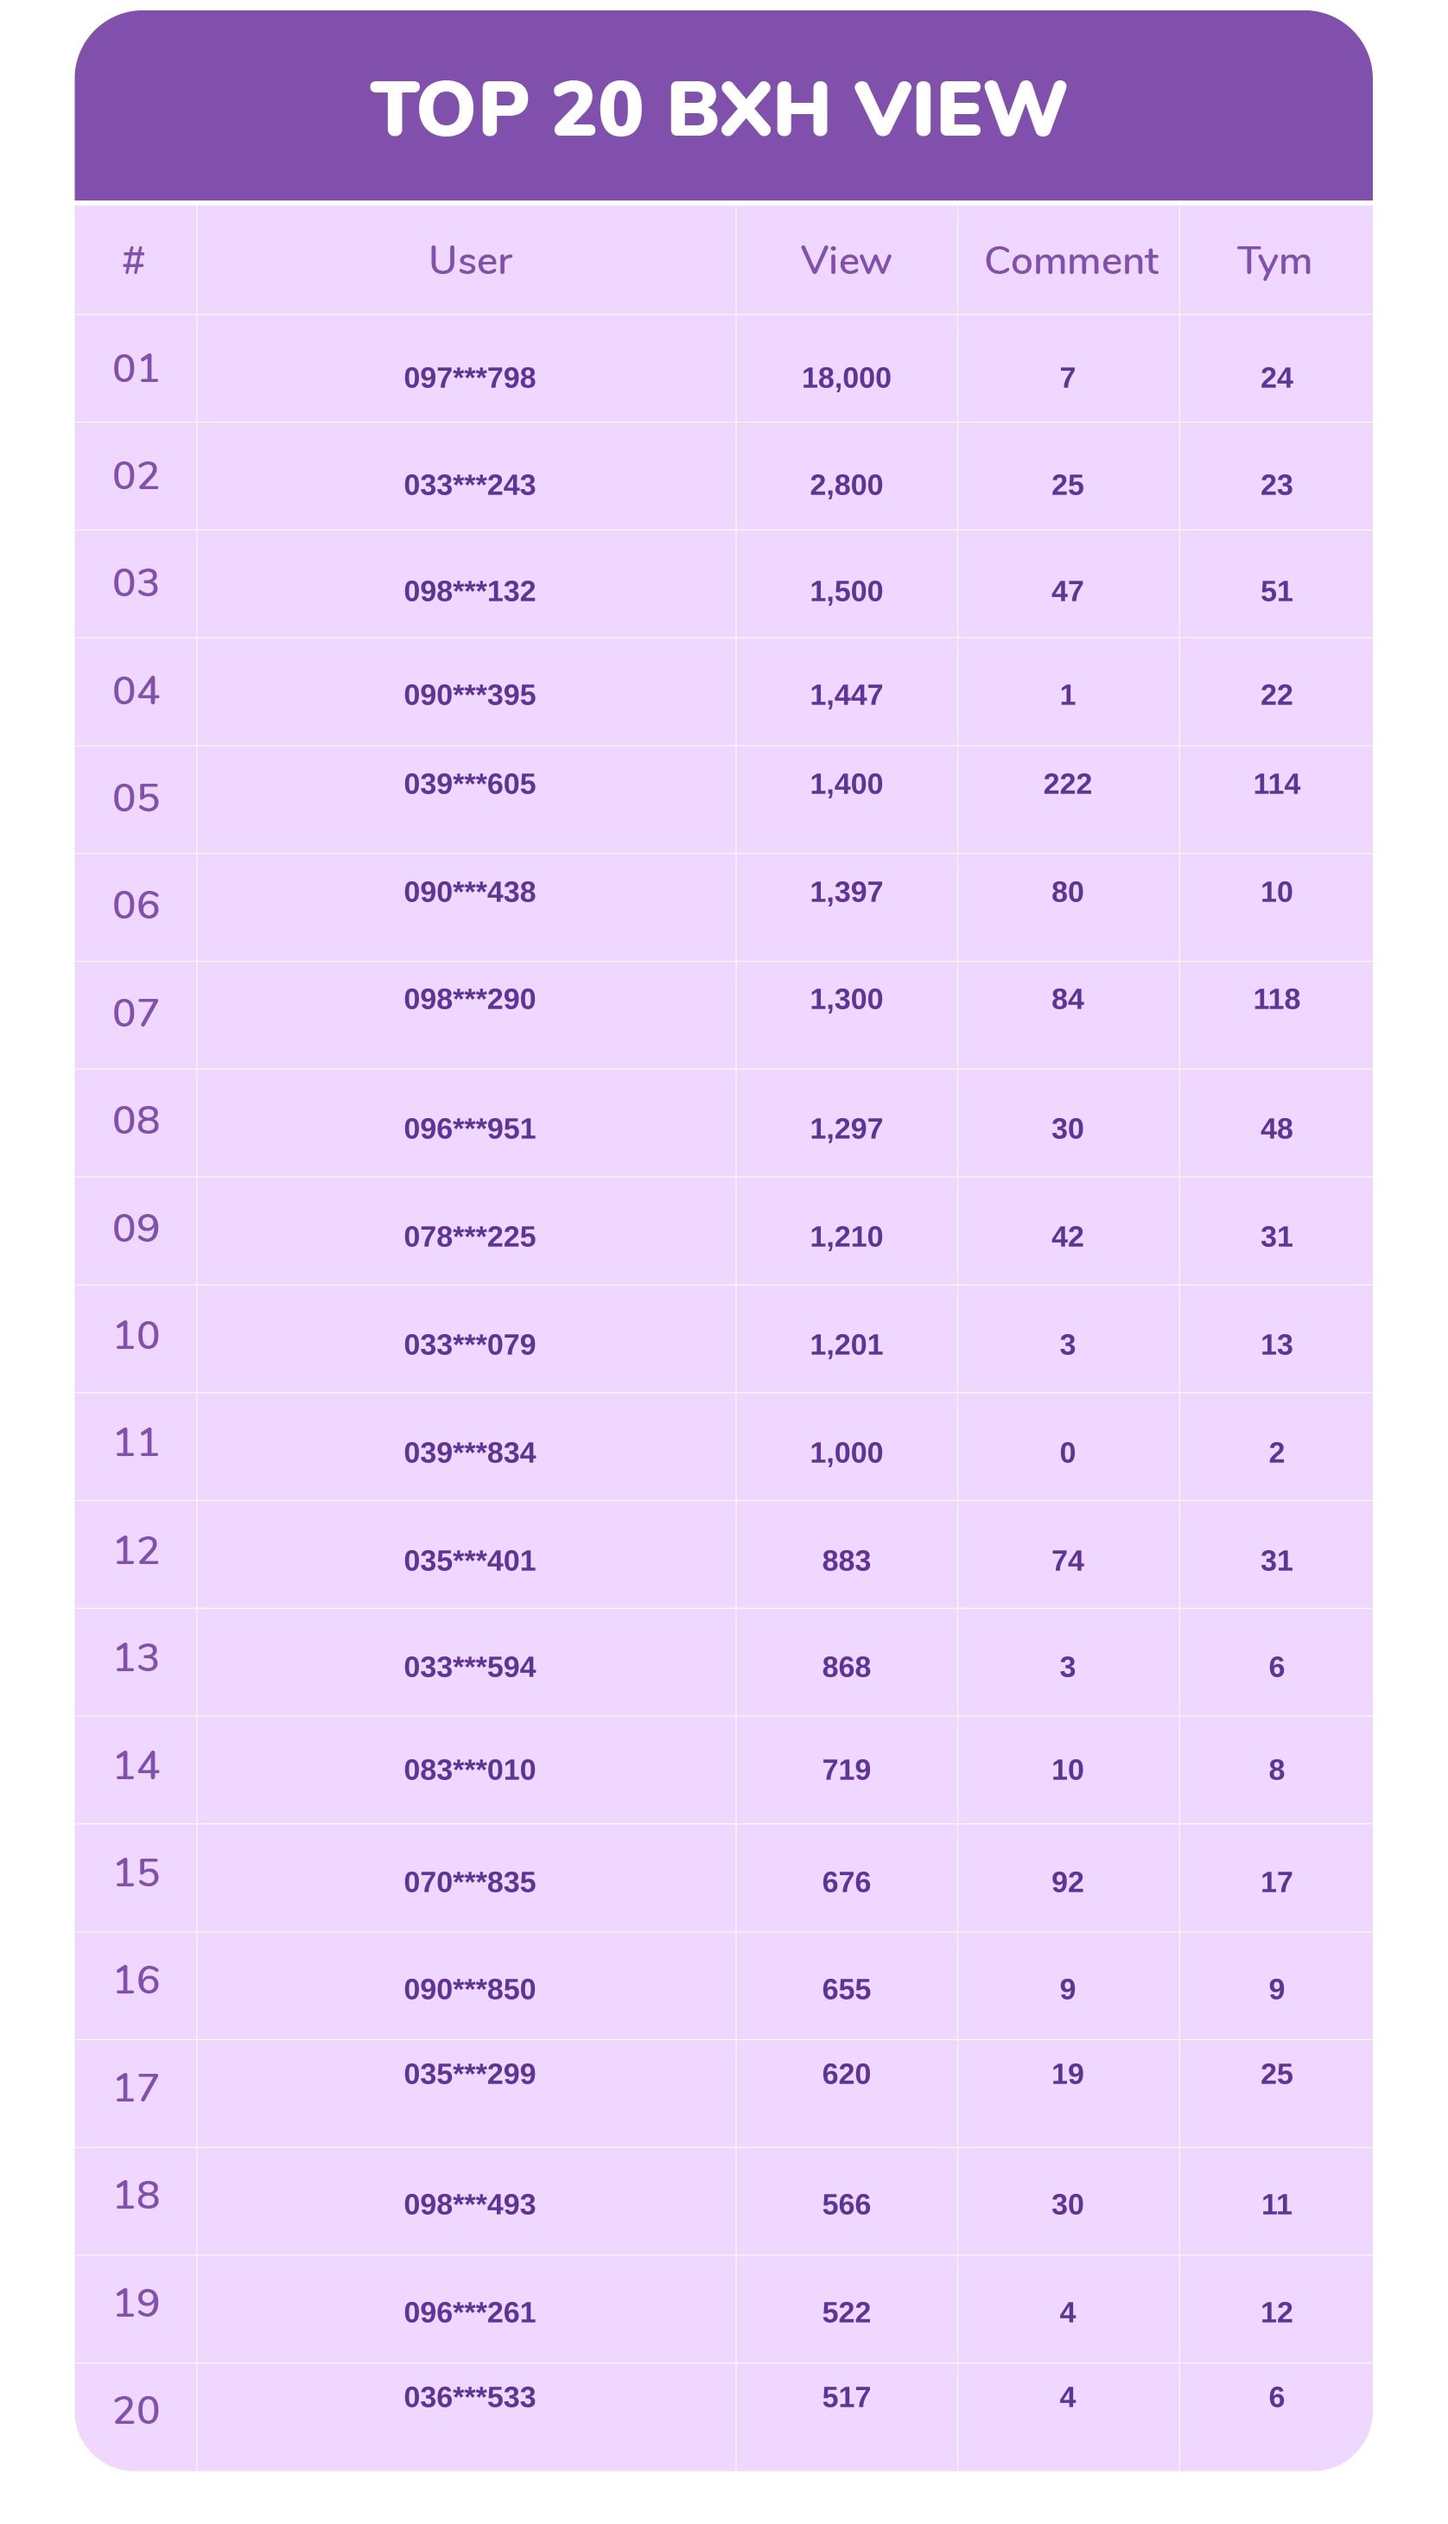
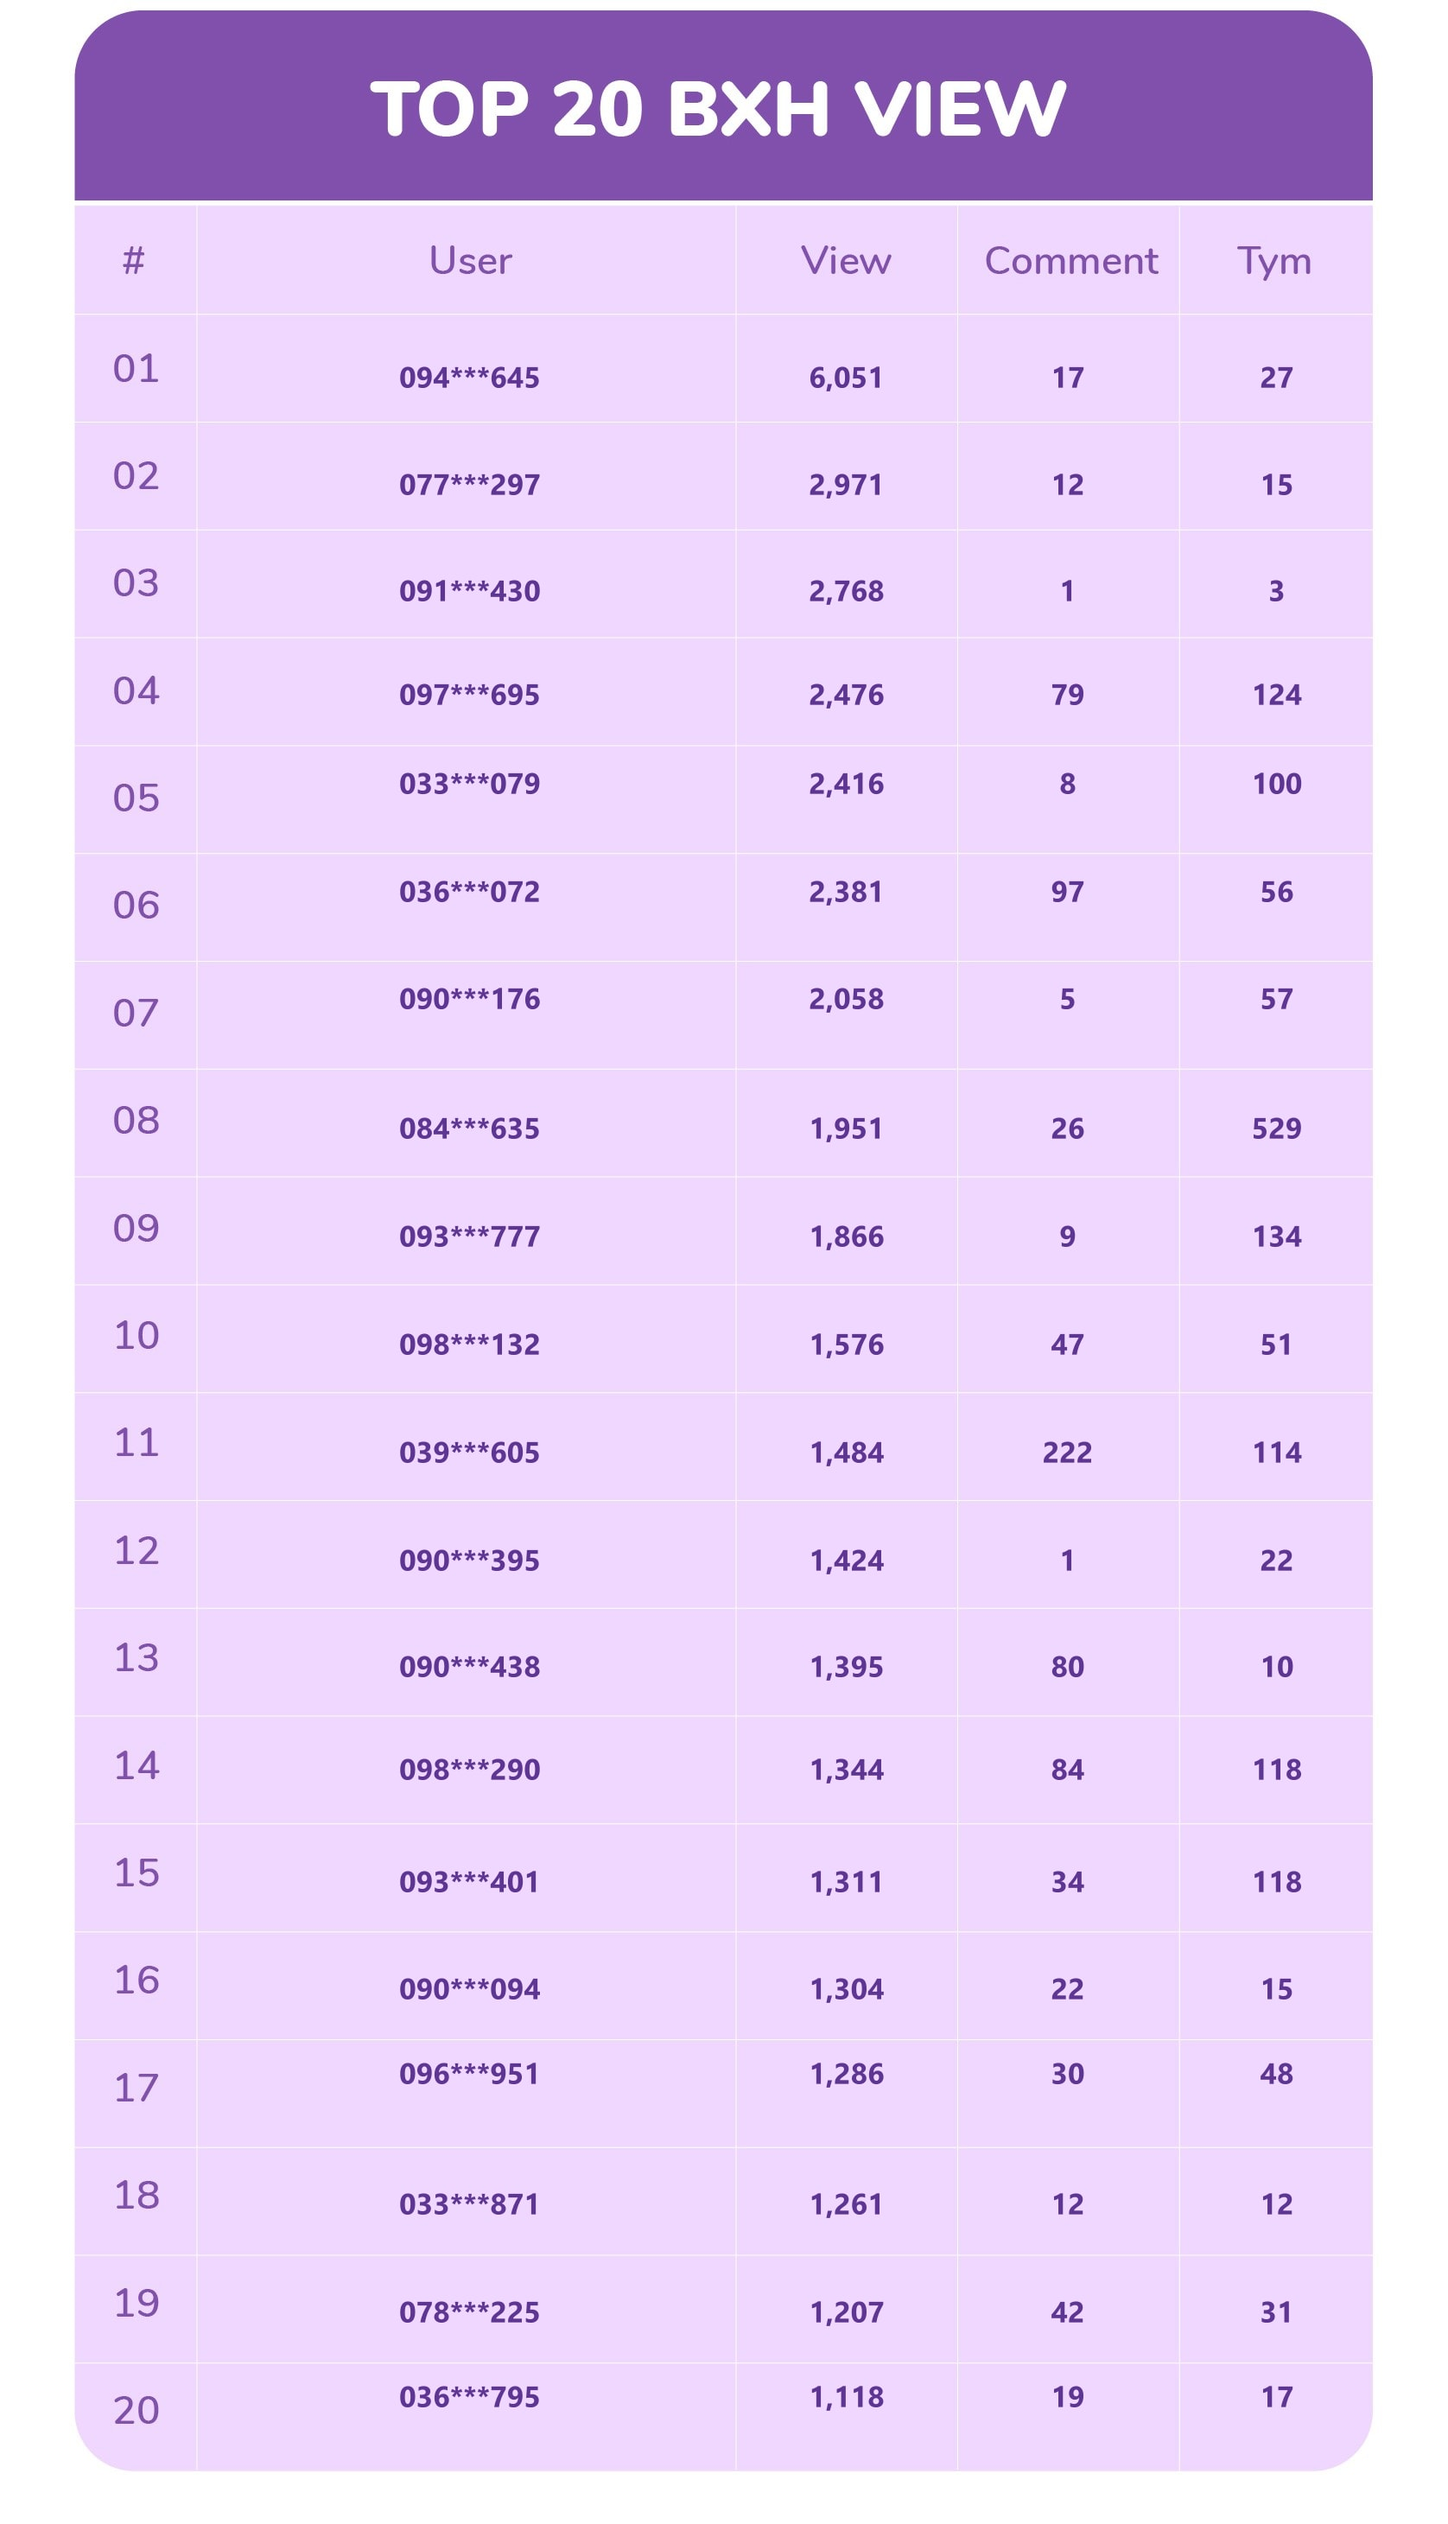
fix: disable daily cron schedule and add robust fallback lookup to manual bxh

diff --git a/src/manual-bxh.js b/src/manual-bxh.js
@@ -149,6 +149,32 @@ async function processManualBxh(options = {}) {
 
   console.log(`[ManualBXH] 📌 Cấu hình cột: SĐT [Cột ${phoneIdx + 1}], Nhãn [Cột ${statusIdx + 1}], Post ID [Cột ${postIdIdx + 1}], View [Cột ${viewIdx + 1}], React [Cột ${reactIdx + 1}], Comment [Cột ${commentIdx + 1}]`);
 
+  // Đọc thêm tab 'BXH' của Sheet nguồn (nếu có) để dự phòng tra cứu nhãn kiểm duyệt khi cột F ở 'Link bài thi' bị lỗi công thức #REF! hoặc rỗng
+  const bxhFallbackMap = new Map();
+  try {
+    const resBxh = await sheets.spreadsheets.values.get({
+      spreadsheetId: sourceSheetId,
+      range: "'BXH'!A:N"
+    });
+    const bxhRows = resBxh.data.values || [];
+    for (let i = 1; i < bxhRows.length; i++) {
+      const bxhRow = bxhRows[i];
+      const link = bxhRow[4] ? String(bxhRow[4]).trim() : '';
+      const status = bxhRow[5] ? String(bxhRow[5]).trim() : '';
+      const view = bxhRow[11] ? parseMetric(bxhRow[11]) : 0;
+      const react = bxhRow[12] ? parseMetric(bxhRow[12]) : 0;
+      const comment = bxhRow[13] ? parseMetric(bxhRow[13]) : 0;
+      if (link) {
+        bxhFallbackMap.set(link, { status, view, react, comment });
+      }
+    }
+    if (bxhFallbackMap.size > 0) {
+      console.log(`[ManualBXH] ℹ Đã nạp ${bxhFallbackMap.size} dòng dữ liệu dự phòng từ tab 'BXH'.`);
+    }
+  } catch (err) {
+    console.warn(`[ManualBXH] ⚠ Không thể đọc tab 'BXH' dự phòng:`, err.message);
+  }
+
   // BƯỚC 1: LỌC TOÀN BỘ CÁC DÒNG HỢP LỆ VÀO MẢNG TẠM
   const rawApprovedRows = [];
 
@@ -156,7 +182,15 @@ async function processManualBxh(options = {}) {
     const r = rows[i];
     if (!r || r.length === 0) continue;
 
-    const rawStatus = r[statusIdx] !== undefined ? String(r[statusIdx]).trim() : '';
+    const rawLink = r[linkIdx] !== undefined ? String(r[linkIdx]).trim() : '';
+    let rawStatus = r[statusIdx] !== undefined ? String(r[statusIdx]).trim() : '';
+
+    // Dự phòng: Nếu cột F rỗng hoặc lỗi công thức #REF!, tra cứu từ tab 'BXH'
+    const fallbackData = rawLink ? bxhFallbackMap.get(rawLink) : null;
+    if ((!rawStatus || rawStatus.startsWith('#')) && fallbackData && fallbackData.status) {
+      rawStatus = fallbackData.status;
+    }
+
     if (!isRowApproved(rawStatus)) {
       continue;
     }
@@ -170,11 +204,14 @@ async function processManualBxh(options = {}) {
     const rawTime = r[timeIdx] !== undefined ? String(r[timeIdx]).trim() : '';
     const parsedTime = parseSubmissionTimestamp(rawTime) || 0;
     const platform = r[platformIdx] !== undefined ? String(r[platformIdx]).trim() : '';
-    const rawLink = r[linkIdx] !== undefined ? String(r[linkIdx]).trim() : '';
     const authorName = r[nameIdx] !== undefined ? String(r[nameIdx]).trim() : '';
-    const view = parseMetric(r[viewIdx]);
-    const react = parseMetric(r[reactIdx]);
-    const comment = parseMetric(r[commentIdx]);
+    let view = parseMetric(r[viewIdx]);
+    let react = parseMetric(r[reactIdx]);
+    let comment = parseMetric(r[commentIdx]);
+    if (view === 0 && fallbackData && fallbackData.view) view = fallbackData.view;
+    if (react === 0 && fallbackData && fallbackData.react) react = fallbackData.react;
+    if (comment === 0 && fallbackData && fallbackData.comment) comment = fallbackData.comment;
+
     const postId = (postIdIdx !== -1 && r[postIdIdx] !== undefined) ? String(r[postIdIdx]).trim() : '';
 
     rawApprovedRows.push({
